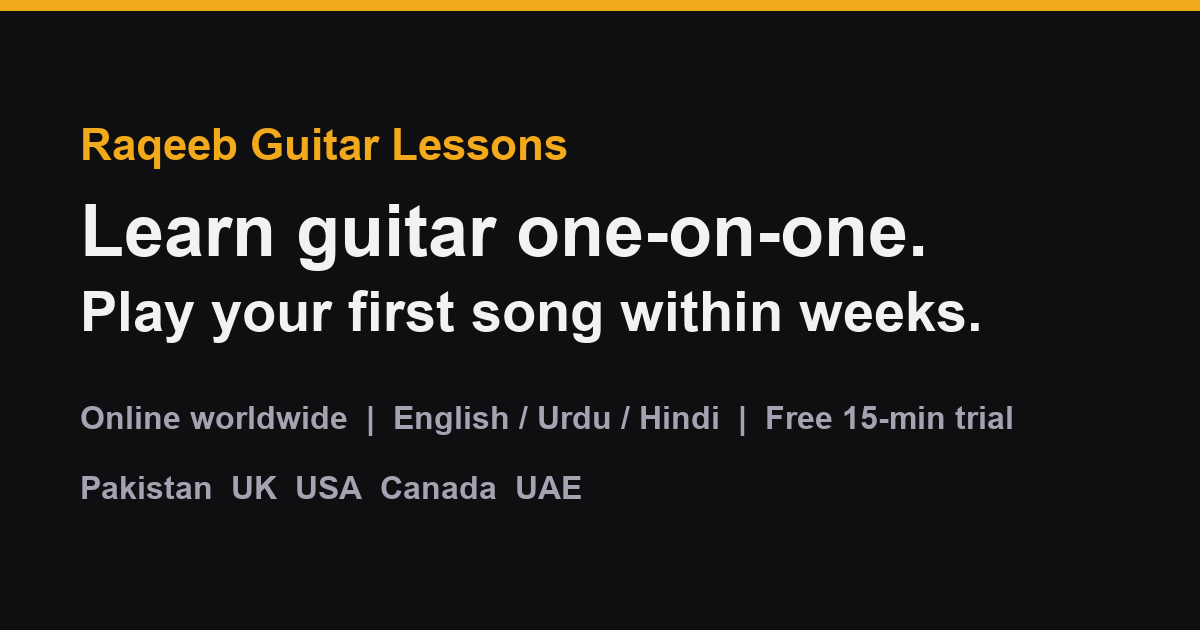
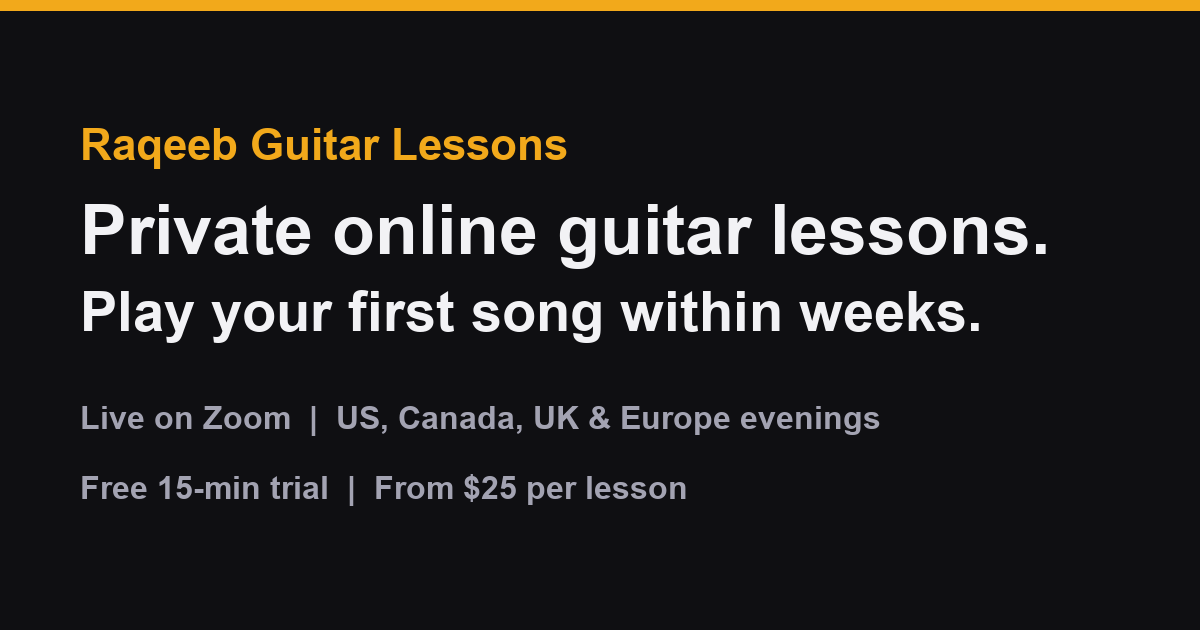
Reposition site for US and international students: USD-first pricing, Payoneer payments, time zones, copy

Changed region(s): [[0.0617, 0.3016, 0.8633, 0.4524], [0.0617, 0.6333, 0.8633, 0.6937], [0.0617, 0.754, 0.5858, 0.8143]]

diff --git a/index.html b/index.html
@@ -3,19 +3,19 @@
 <head>
   <meta charset="UTF-8" />
   <meta name="viewport" content="width=device-width, initial-scale=1.0" />
-  <title>Online Guitar Lessons in English, Urdu & Hindi | Raqeeb Guitar Lessons, Lahore</title>
-  <meta name="description" content="One-on-one online guitar lessons for beginners and intermediate players, taught in English, Urdu or Hindi. In-person classes in Lahore. Students in Pakistan, UK, USA, Canada and UAE. Free 15-minute trial." />
+  <title>Online Guitar Lessons via Zoom | 1-on-1 Beginner & Intermediate | Raqeeb Guitar</title>
+  <meta name="description" content="Private online guitar lessons over Zoom for beginners and intermediate players in the US, Canada, UK and Europe. Learn chords, strumming and the songs you love. Free 15-minute trial, from $25 per lesson." />
   <link rel="canonical" href="https://raqeebalam.github.io/guitar-lessons/" />
   <meta name="robots" content="index, follow" />
   <meta name="theme-color" content="#0f0f12" />
   <meta property="og:type" content="website" />
   <meta property="og:url" content="https://raqeebalam.github.io/guitar-lessons/" />
-  <meta property="og:title" content="Online Guitar Lessons in English, Urdu & Hindi | Raqeeb Guitar" />
-  <meta property="og:description" content="Learn guitar online, one-on-one. Play your first song within weeks. Free 15-minute trial. Pakistan, UK, USA, Canada, UAE." />
+  <meta property="og:title" content="Online Guitar Lessons via Zoom | 1-on-1 | Raqeeb Guitar" />
+  <meta property="og:description" content="Private online guitar lessons for beginners and intermediate players. Play your first song within weeks. Free 15-minute trial." />
   <meta property="og:image" content="https://raqeebalam.github.io/guitar-lessons/images/og.png" />
   <meta name="twitter:card" content="summary_large_image" />
-  <meta name="twitter:title" content="Online Guitar Lessons in English, Urdu & Hindi | Raqeeb Guitar" />
-  <meta name="twitter:description" content="One-on-one online guitar lessons. Free 15-minute trial." />
+  <meta name="twitter:title" content="Online Guitar Lessons via Zoom | 1-on-1 | Raqeeb Guitar" />
+  <meta name="twitter:description" content="Private online guitar lessons. Free 15-minute trial. From $25/lesson." />
   <meta name="twitter:image" content="https://raqeebalam.github.io/guitar-lessons/images/og.png" />
   <script type="application/ld+json">
   {
@@ -27,35 +27,36 @@
         "name": "Raqeeb Guitar Lessons",
         "url": "https://raqeebalam.github.io/guitar-lessons/",
         "image": "https://raqeebalam.github.io/guitar-lessons/images/og.png",
-        "description": "One-on-one online guitar lessons for beginners and intermediate players, taught in English, Urdu or Hindi. In-person lessons in Lahore, Pakistan.",
+        "description": "Private online guitar lessons over Zoom for beginners and intermediate players worldwide, with in-person lessons in Lahore, Pakistan. Taught in English, with Urdu and Hindi available.",
         "telephone": "+923474464065",
         "address": { "@type": "PostalAddress", "addressLocality": "Lahore", "addressRegion": "Punjab", "addressCountry": "PK" },
-        "areaServed": ["Pakistan", "United Kingdom", "United States", "Canada", "United Arab Emirates", "Saudi Arabia"],
+        "areaServed": ["United States", "Canada", "United Kingdom", "Ireland", "Germany", "Netherlands", "United Arab Emirates", "Saudi Arabia", "Australia", "Pakistan"],
         "availableLanguage": ["English", "Urdu", "Hindi"],
-        "priceRange": "PKR 1500 - PKR 10000 / USD 15 - USD 99",
+        "priceRange": "USD 25 - USD 179",
+        "currenciesAccepted": "USD, GBP, EUR, PKR",
         "founder": { "@type": "Person", "name": "Raqeeb Alam" },
         "makesOffer": [
-          { "@type": "Offer", "name": "Single online guitar lesson (60 min)", "price": "15", "priceCurrency": "USD" },
-          { "@type": "Offer", "name": "Monthly package, 8 online guitar lessons", "price": "99", "priceCurrency": "USD" },
-          { "@type": "Offer", "name": "In-person guitar lesson in Lahore", "price": "2500", "priceCurrency": "PKR" }
+          { "@type": "Offer", "name": "Single online guitar lesson (60 min, Zoom)", "price": "25", "priceCurrency": "USD" },
+          { "@type": "Offer", "name": "Monthly package, 8 online guitar lessons", "price": "179", "priceCurrency": "USD" },
+          { "@type": "Offer", "name": "Song intensive, 4 online lessons", "price": "89", "priceCurrency": "USD" }
         ]
       },
       {
         "@type": "Course",
-        "name": "Beginner Guitar Course (one-on-one, online)",
-        "description": "Start from zero. Posture, tuning, 8 essential chords, strumming and 3 complete songs in 4-6 weeks.",
+        "name": "Beginner Guitar Course (private, online via Zoom)",
+        "description": "Start from zero. Posture, tuning, 8 essential chords, strumming patterns and 3 complete songs in 4-6 weeks.",
         "provider": { "@id": "https://raqeebalam.github.io/guitar-lessons/#business" },
         "hasCourseInstance": { "@type": "CourseInstance", "courseMode": "online", "courseWorkload": "PT2H" },
-        "offers": { "@type": "Offer", "price": "99", "priceCurrency": "USD", "category": "Monthly package" }
+        "offers": { "@type": "Offer", "price": "179", "priceCurrency": "USD", "category": "Monthly package" }
       },
       {
         "@type": "FAQPage",
         "mainEntity": [
-          { "@type": "Question", "name": "I don't have a guitar yet. Can I still start?", "acceptedAnswer": { "@type": "Answer", "text": "Yes, the trial doesn't need one. Afterwards I'll recommend a good beginner acoustic for your budget and country." } },
-          { "@type": "Question", "name": "How do online guitar lessons work?", "acceptedAnswer": { "@type": "Answer", "text": "Live on Zoom or WhatsApp video. Chords and strumming are shown in close-up, you play along and get corrected in real time. Practice notes and backing tracks follow each lesson." } },
-          { "@type": "Question", "name": "Which time zones do you teach in?", "acceptedAnswer": { "@type": "Answer", "text": "Pakistan, UK, Europe and the Gulf during the day; US and Canada in the evenings." } },
-          { "@type": "Question", "name": "How do I pay from outside Pakistan?", "acceptedAnswer": { "@type": "Answer", "text": "Wise or Payoneer in USD, GBP, EUR or AED, or bank transfer. Inside Pakistan: JazzCash, Easypaisa or bank transfer." } },
-          { "@type": "Question", "name": "What ages do you teach?", "acceptedAnswer": { "@type": "Answer", "text": "Ages 10 and up. Kids' lessons are 45 minutes and song-based." } },
+          { "@type": "Question", "name": "I don't have a guitar yet. Can I still start?", "acceptedAnswer": { "@type": "Answer", "text": "Yes. The trial doesn't need one. Afterwards I'll recommend a good beginner acoustic for your budget, with links for Amazon, Guitar Center or Sweetwater." } },
+          { "@type": "Question", "name": "How do online guitar lessons work?", "acceptedAnswer": { "@type": "Answer", "text": "Live on Zoom with two camera angles so you see the fretboard and strumming hand clearly. You play along and get corrected in real time. Practice notes, chord sheets and backing tracks follow each lesson." } },
+          { "@type": "Question", "name": "Which time zones do you teach in?", "acceptedAnswer": { "@type": "Answer", "text": "US and Canada evenings (Eastern, Central, Mountain and Pacific), UK and Europe afternoons and evenings, Gulf and Pakistan daytime." } },
+          { "@type": "Question", "name": "How do I pay?", "acceptedAnswer": { "@type": "Answer", "text": "By card or bank via a secure Payoneer payment link in USD, GBP or EUR. Students in Pakistan can pay by JazzCash, Easypaisa or bank transfer." } },
+          { "@type": "Question", "name": "What ages do you teach?", "acceptedAnswer": { "@type": "Answer", "text": "Ages 10 and up, including adult beginners. Kids' lessons are 45 minutes and song-based." } },
           { "@type": "Question", "name": "What if I miss a lesson?", "acceptedAnswer": { "@type": "Answer", "text": "Reschedule free with 24 hours' notice. The monthly package includes one make-up lesson." } }
         ]
       }
@@ -75,23 +76,23 @@
       <a href="#about">About</a>
       <a href="#faq">FAQ</a>
     </nav>
-    <a class="btn btn-primary btn-sm js-whatsapp" href="#" data-msg="Hi! I'd like to know more about your guitar lessons.">WhatsApp</a>
+    <a class="btn btn-primary btn-sm js-whatsapp" href="#" data-msg="Hi Raqeeb! I'd like to know more about your online guitar lessons.">Book a trial</a>
   </header>
 
   <main id="top">
     <section class="hero">
       <div class="hero-text">
-        <p class="eyebrow">Online worldwide · In person in <span class="js-city">Lahore</span> · English / Urdu / Hindi</p>
+        <p class="eyebrow">Private online lessons via Zoom · US, Canada, UK &amp; Europe</p>
         <h1>Learn guitar one-on-one. Play your first song within weeks.</h1>
-        <p class="lead">Live online lessons over Zoom for beginners and intermediate players. No music background needed. Students in Pakistan, UK, USA, Canada, UAE and Saudi Arabia.</p>
+        <p class="lead">Live, private guitar lessons for adult beginners, kids and intermediate players. No music background needed. Lessons scheduled in your evening, in your time zone.</p>
         <div class="hero-cta">
-          <a class="btn btn-primary js-whatsapp" href="#" data-msg="Hi! I'd like to book a free trial guitar lesson. My time zone is: ">Book a free trial</a>
-          <a class="btn btn-ghost" href="#lessons">See lessons</a>
+          <a class="btn btn-primary js-whatsapp" href="#" data-msg="Hi Raqeeb! I'd like to book a free trial guitar lesson. My time zone is: ">Book a free 15-min trial</a>
+          <a class="btn btn-ghost" href="#pricing">See pricing</a>
         </div>
         <ul class="trust">
-          <li>✔ Free 15-min trial</li>
-          <li>✔ Your time zone, your schedule</li>
-          <li>✔ Pay in PKR, USD, GBP or AED</li>
+          <li>✔ From $25 per lesson</li>
+          <li>✔ US &amp; Canada evening slots</li>
+          <li>✔ Pay securely by card (USD, GBP, EUR)</li>
         </ul>
       </div>
       <div class="hero-card">
@@ -99,9 +100,9 @@
           <p class="card-label">What you'll learn</p>
           <ul class="checklist">
             <li>Holding the guitar, tuning, first chords (Em, Am, C, G, D)</li>
-            <li>Strumming patterns and rhythm</li>
-            <li>Smooth chord changes</li>
-            <li>Songs you actually want to play: pop, rock, Bollywood, Coke Studio, worship, classics</li>
+            <li>Strumming patterns, rhythm and timing</li>
+            <li>Smooth chord changes without pausing</li>
+            <li>Songs you actually want to play: pop, rock, country, worship, acoustic classics, Bollywood</li>
             <li>Barre chords, fingerstyle, scales and solos (intermediate)</li>
           </ul>
         </div>
@@ -110,15 +111,15 @@
 
     <section id="lessons" class="section">
       <h2>Lessons</h2>
-      <p class="section-sub">Every lesson is private and paced to you. Taught in English, Urdu or Hindi, whichever you prefer.</p>
+      <p class="section-sub">Every lesson is private and paced to you. Taught in clear English (Urdu and Hindi also available).</p>
       <div class="grid-3">
         <article class="card">
-          <h3>Beginner</h3>
-          <p>Start from zero. Most students play simple songs with chords within 4–6 weeks.</p>
+          <h3>Adult Beginner</h3>
+          <p>Start from zero, at any age. Most students play simple songs with chords within 4–6 weeks.</p>
           <ul class="checklist small">
             <li>Posture, tuning, finger exercises</li>
             <li>8 essential open chords</li>
-            <li>3 complete songs</li>
+            <li>3 complete songs of your choice</li>
           </ul>
         </article>
         <article class="card">
@@ -131,12 +132,12 @@
           </ul>
         </article>
         <article class="card">
-          <h3>Song Coaching</h3>
-          <p>Need one specific song for a wedding, event or just for fun? Focused sessions.</p>
+          <h3>Kids (10+)</h3>
+          <p>Shorter, song-based lessons that keep kids motivated. Parents get a short progress note after each lesson.</p>
           <ul class="checklist small">
-            <li>Your chosen song</li>
-            <li>Simplified arrangement if needed</li>
-            <li>Practice plan to get it stage-ready</li>
+            <li>45-minute sessions</li>
+            <li>Fun, familiar songs first</li>
+            <li>Weekly practice mini-goals</li>
           </ul>
         </article>
       </div>
@@ -144,59 +145,59 @@
 
     <section id="pricing" class="section alt">
       <h2>Pricing</h2>
-      <p class="section-sub">First 15-minute trial is free. No commitment.</p>
+      <p class="section-sub">First 15-minute trial is free. No commitment, no card needed.</p>
 
       <div class="toggle" role="tablist" aria-label="Region">
-        <button class="toggle-btn active" data-region="pk" role="tab" aria-selected="true">🇵🇰 Pakistan (PKR)</button>
-        <button class="toggle-btn" data-region="intl" role="tab" aria-selected="false">🌍 International (USD)</button>
+        <button class="toggle-btn active" data-region="intl" role="tab" aria-selected="true">🌍 International (USD)</button>
+        <button class="toggle-btn" data-region="pk" role="tab" aria-selected="false">🇵🇰 Pakistan (PKR)</button>
       </div>
 
       <div class="grid-3">
         <article class="card price">
           <h3>Single Lesson</h3>
-          <p class="amount"><span data-pk="Rs. 1,500" data-intl="$15">Rs. 1,500</span><span class="per">/lesson</span></p>
-          <p>60 minutes, live on Zoom or WhatsApp video.</p>
-          <a class="btn btn-outline js-whatsapp" href="#" data-msg="Hi! I'd like to book a single online guitar lesson.">Book</a>
+          <p class="amount"><span data-pk="Rs. 1,500" data-intl="$25">$25</span><span class="per">/lesson</span></p>
+          <p>60 minutes, live on Zoom. Good for trying things out or occasional coaching.</p>
+          <a class="btn btn-outline js-whatsapp" href="#" data-msg="Hi Raqeeb! I'd like to book a single online guitar lesson.">Book</a>
         </article>
         <article class="card price featured">
           <p class="badge">Most popular</p>
           <h3>Monthly (8 lessons)</h3>
-          <p class="amount"><span data-pk="Rs. 10,000" data-intl="$99">Rs. 10,000</span><span class="per">/month</span></p>
-          <p>Two 60-minute lessons per week. Practice material, backing tracks and WhatsApp support between lessons.</p>
-          <a class="btn btn-primary js-whatsapp" href="#" data-msg="Hi! I'm interested in the monthly guitar package (8 lessons).">Book</a>
+          <p class="amount"><span data-pk="Rs. 10,000" data-intl="$179">$179</span><span class="per">/month</span></p>
+          <p>Two 60-minute lessons per week. Chord sheets, backing tracks and message support between lessons. <span data-pk="" data-intl="Saves $21 vs single lessons.">Saves $21 vs single lessons.</span></p>
+          <a class="btn btn-primary js-whatsapp" href="#" data-msg="Hi Raqeeb! I'm interested in the monthly package (8 lessons).">Book</a>
         </article>
         <article class="card price">
-          <h3 data-pk="In Person" data-intl="Intensive (4 lessons)">In Person</h3>
-          <p class="amount"><span data-pk="Rs. 2,500" data-intl="$55">Rs. 2,500</span><span class="per" data-pk="/lesson" data-intl="/pack">/lesson</span></p>
-          <p data-pk="At your home or my studio in Lahore. Travel adjusted." data-intl="Four 60-minute lessons to learn one song fast. Ideal for events.">At your home or my studio in Lahore. Travel adjusted.</p>
-          <a class="btn btn-outline js-whatsapp" href="#" data-msg="Hi! I'd like an in-person / intensive guitar lesson. Details: ">Book</a>
+          <h3 data-pk="In Person (Lahore)" data-intl="Song Intensive (4 lessons)">Song Intensive (4 lessons)</h3>
+          <p class="amount"><span data-pk="Rs. 2,500" data-intl="$89">$89</span><span class="per" data-pk="/lesson" data-intl="/pack">/pack</span></p>
+          <p data-pk="At your home or my studio in Lahore. Travel adjusted." data-intl="Learn one specific song fast, for a wedding, a proposal, an open mic or just for you.">Learn one specific song fast, for a wedding, a proposal, an open mic or just for you.</p>
+          <a class="btn btn-outline js-whatsapp" href="#" data-msg="Hi Raqeeb! I'd like the song intensive / in-person option. The song or details: ">Book</a>
         </article>
       </div>
-      <p class="note" data-pk="Payment: JazzCash, Easypaisa or bank transfer. Confirmed before each lesson." data-intl="Payment: Wise, Payoneer or bank transfer in USD, GBP, EUR or AED. Confirmed before each lesson.">Payment: JazzCash, Easypaisa or bank transfer. Confirmed before each lesson.</p>
+      <p class="note" data-pk="Payment: JazzCash, Easypaisa or bank transfer. Confirmed before each lesson." data-intl="Payment: secure card or bank payment via Payoneer link in USD, GBP or EUR. No subscription, cancel any time.">Payment: secure card or bank payment via Payoneer link in USD, GBP or EUR. No subscription, cancel any time.</p>
     </section>
 
     <section id="how" class="section">
       <h2>How it works</h2>
       <ol class="steps">
-        <li><strong>Message on WhatsApp</strong> — tell me your level, goals and time zone.</li>
-        <li><strong>Free trial</strong> — 15 minutes to check your level, your guitar setup and build a plan.</li>
+        <li><strong>Message me</strong> — tell me your level, goals and time zone.</li>
+        <li><strong>Free trial</strong> — 15 minutes on Zoom to check your level, your guitar and build a plan.</li>
         <li><strong>Start lessons</strong> — fixed weekly slots, a practice task after every lesson.</li>
         <li><strong>First song</strong> — most beginners play a complete song in 4–6 weeks.</li>
       </ol>
-      <p class="note">Time zones covered: Pakistan (PKT), UK (GMT/BST), Gulf (GST), US East and Central (EST/CST) evenings.</p>
+      <p class="note">Available slots: US &amp; Canada 5–10 PM Eastern (2–7 PM Pacific), UK 2–9 PM, Europe 3–10 PM CET, Gulf &amp; Pakistan daytime.</p>
     </section>
 
     <section id="about" class="section alt">
       <div class="about">
         <div class="about-photo">
-          <img src="images/teacher.jpg" alt="Raqeeb Alam, guitar teacher in Lahore, playing acoustic guitar" loading="lazy" onerror="this.style.display='none'" />
+          <img src="images/teacher.jpg" alt="Raqeeb Alam, online guitar teacher, playing acoustic guitar" loading="lazy" onerror="this.style.display='none'" />
           <span class="photo-placeholder">🎸</span>
         </div>
         <div>
           <h2>About me</h2>
-          <p>I'm Raqeeb, a guitarist and teacher based in <span class="js-city">Lahore</span>, Pakistan. I teach the way I wish I had been taught: less theory up front, more playing, and songs you love from lesson one.</p>
-          <p>I teach in English, Urdu and Hindi, so students from South Asia and the diaspora in the UK, US, Canada and the Gulf feel at home.</p>
-          <p class="muted">Add your details here: years playing, genres, performances, number of students taught.</p>
+          <p>I'm Raqeeb, a guitarist and teacher based in Lahore, Pakistan, teaching students online across the US, Canada, the UK and Europe. I teach the way I wish I had been taught: less theory up front, more playing, and songs you love from lesson one.</p>
+          <p>Lessons are in clear English. I also teach in Urdu and Hindi, so South Asian families abroad can learn Bollywood and Coke Studio favourites alongside Western pop and rock.</p>
+          <!-- TODO: add years of experience, genres, performances, number of students taught -->
         </div>
       </div>
     </section>
@@ -205,26 +206,26 @@
       <h2>What students say</h2>
       <div class="grid-3">
         <blockquote class="card quote">
-          <p>"I picked up Em and Am in the very first lesson. Two months later I can play full songs for my friends."</p>
-          <footer>— Student name, London</footer>
+          <p>"I picked up Em and Am in the very first lesson. Two months later I'm playing full songs at family gatherings."</p>
+          <footer>— Adult beginner, New Jersey</footer>
         </blockquote>
         <blockquote class="card quote">
-          <p>"Online felt just like in person. Every chord was shown close-up, and he is incredibly patient."</p>
-          <footer>— Student name, Karachi</footer>
+          <p>"Zoom lessons felt just like in person. Every chord was shown close-up, and he is incredibly patient."</p>
+          <footer>— Student, London</footer>
         </blockquote>
         <blockquote class="card quote">
-          <p>"My 12-year-old daughter now practises on her own every day. That never happened with any other class."</p>
-          <footer>— Parent, Dubai</footer>
+          <p>"My 12-year-old now practises on her own every day. That never happened with any other class."</p>
+          <footer>— Parent, Toronto</footer>
         </blockquote>
       </div>
-      <p class="note">Placeholder reviews. Replace with real student feedback.</p>
+      <!-- TODO: replace placeholder quotes with real student reviews -->
     </section>
 
     <section id="areas" class="section">
-      <h2>Online guitar lessons for Pakistan and the diaspora</h2>
+      <h2>Online guitar lessons, wherever you are</h2>
       <div class="two-col">
-        <p>Looking for a <strong>guitar teacher in Lahore</strong>? I teach in person across Lahore (DHA, Gulberg, Johar Town, Bahria Town, Model Town) and online to students in Karachi, Islamabad, Rawalpindi, Faisalabad, Multan and Peshawar.</p>
-        <p>Living abroad and want an <strong>Urdu- or Hindi-speaking guitar teacher</strong>? Students in London, Birmingham, Manchester, New York, New Jersey, Toronto, Dubai, Abu Dhabi, Riyadh and Jeddah take lessons in their evenings. Learn Bollywood, Coke Studio, Atif Aslam, Ali Zafar, Arijit Singh songs as well as English pop, rock and worship music.</p>
+        <p>Looking for an <strong>affordable online guitar teacher</strong> without the $60-an-hour local price tag? Students in New York, New Jersey, Texas, California, Chicago, Toronto and Vancouver take private Zoom lessons in their evenings and learn pop, rock, country, worship and acoustic classics.</p>
+        <p>Part of the <strong>South Asian diaspora</strong> in the US, UK, Canada or the Gulf? Learn in English, Urdu or Hindi, and play Bollywood, Coke Studio, Atif Aslam, Arijit Singh and Ali Zafar songs alongside your Western favourites. In-person lessons are also available in Lahore, Pakistan.</p>
       </div>
     </section>
 
@@ -232,40 +233,44 @@
       <h2>FAQ</h2>
       <details>
         <summary>I don't have a guitar yet. Can I still start?</summary>
-        <p>Yes, the trial doesn't need one. Afterwards I'll recommend a good beginner acoustic for your budget and country.</p>
+        <p>Yes. The trial doesn't need one. Afterwards I'll recommend a good beginner acoustic for your budget, with links for Amazon, Guitar Center or Sweetwater.</p>
       </details>
       <details>
         <summary>How do online lessons work?</summary>
-        <p>Live on Zoom (or WhatsApp video). I show chords and strumming in close-up, you play along, and I correct in real time. You get practice notes and backing tracks after each lesson.</p>
+        <p>Live on Zoom with two camera angles so you see the fretboard and strumming hand clearly. You play along and get corrected in real time. Practice notes, chord sheets and backing tracks follow each lesson.</p>
       </details>
       <details>
         <summary>Which time zones do you teach in?</summary>
-        <p>Pakistan, UK, Europe and the Gulf during my day; US and Canada in your evenings. Tell me your time zone and I'll send available slots.</p>
+        <p>US and Canada evenings (Eastern, Central, Mountain and Pacific), UK and Europe afternoons and evenings, Gulf and Pakistan daytime. Tell me your time zone and I'll send available slots.</p>
       </details>
       <details>
-        <summary>How do I pay from outside Pakistan?</summary>
-        <p>Wise or Payoneer (USD, GBP, EUR, AED) or direct bank transfer. Inside Pakistan: JazzCash, Easypaisa or bank transfer.</p>
+        <summary>How do I pay?</summary>
+        <p>By card or bank via a secure Payoneer payment link in USD, GBP or EUR. Students in Pakistan can pay by JazzCash, Easypaisa or bank transfer.</p>
       </details>
       <details>
         <summary>What ages do you teach?</summary>
-        <p>10 and up. Kids' lessons are shorter (45 min) and more song-based.</p>
+        <p>10 and up, including complete adult beginners. Kids' lessons are shorter (45 min) and more song-based.</p>
       </details>
       <details>
         <summary>What if I miss a lesson?</summary>
         <p>Reschedule free with 24 hours' notice. The monthly package includes one make-up lesson.</p>
+      </details>
+      <details>
+        <summary>Acoustic or electric?</summary>
+        <p>Either. Beginners usually start on acoustic; if you already own an electric, we start there.</p>
       </details>
     </section>
 
     <section id="contact" class="section cta-final">
       <h2>Start today</h2>
       <p>Free 15-minute trial. No payment, no commitment.</p>
-      <a class="btn btn-primary btn-lg js-whatsapp" href="#" data-msg="Hi! I'd like to book a free trial guitar lesson. My level: ">Message me on WhatsApp</a>
-      <p class="muted small-text">Or call / WhatsApp: <a class="js-tel" href="#">+92 347 4464065</a></p>
+      <a class="btn btn-primary btn-lg js-whatsapp" href="#" data-msg="Hi Raqeeb! I'd like to book a free trial guitar lesson. My level and time zone: ">Message me on WhatsApp</a>
+      <p class="muted small-text">WhatsApp / call: <a class="js-tel" href="#">+92 347 4464065</a></p>
     </section>
   </main>
 
   <footer class="footer">
-    <p>© <span id="year"></span> Raqeeb Guitar Lessons · <span class="js-city">Lahore</span>, Pakistan · Teaching students worldwide</p>
+    <p>© <span id="year"></span> Raqeeb Guitar Lessons · Online worldwide · In person in <span class="js-city">Lahore</span>, Pakistan</p>
     <p class="socials">
       <a href="#" target="_blank" rel="noopener">Instagram</a> ·
       <a href="#" target="_blank" rel="noopener">YouTube</a> ·
@@ -273,7 +278,7 @@
     </p>
   </footer>
 
-  <a class="wa-float js-whatsapp" href="#" data-msg="Hi! I have a question about guitar lessons." aria-label="Chat on WhatsApp">
+  <a class="wa-float js-whatsapp" href="#" data-msg="Hi Raqeeb! I have a question about guitar lessons." aria-label="Chat on WhatsApp">
     <svg viewBox="0 0 32 32" width="28" height="28" aria-hidden="true"><path fill="currentColor" d="M16 3C9.4 3 4 8.3 4 14.9c0 2.3.7 4.6 1.9 6.5L4 29l7.8-2c1.9 1 3.9 1.5 6 1.5h0c6.6 0 12-5.3 12-11.9S22.6 3 16 3zm0 21.7c-1.8 0-3.6-.5-5.1-1.4l-.4-.2-4.6 1.2 1.2-4.5-.2-.4C5.6 17.8 5 16.4 5 14.9 5 9 9.9 4.2 16 4.2s11 4.8 11 10.7-4.9 9.8-11 9.8zm6-7.3c-.3-.2-1.9-.9-2.2-1-.3-.1-.5-.2-.7.2-.2.3-.8 1-1 1.2-.2.2-.4.2-.7.1-.3-.2-1.4-.5-2.6-1.6-1-.9-1.6-1.9-1.8-2.3-.2-.3 0-.5.1-.7l.5-.6c.2-.2.2-.4.3-.6.1-.2 0-.4 0-.6l-1-2.3c-.3-.6-.5-.5-.7-.5h-.6c-.2 0-.6.1-.9.4-.3.3-1.2 1.1-1.2 2.8s1.2 3.3 1.4 3.5c.2.2 2.4 3.6 5.8 5 .8.3 1.4.6 1.9.7.8.3 1.5.2 2.1.1.6-.1 1.9-.8 2.2-1.5.3-.8.3-1.4.2-1.5-.1-.2-.3-.3-.6-.4z"/></svg>
   </a>
 
